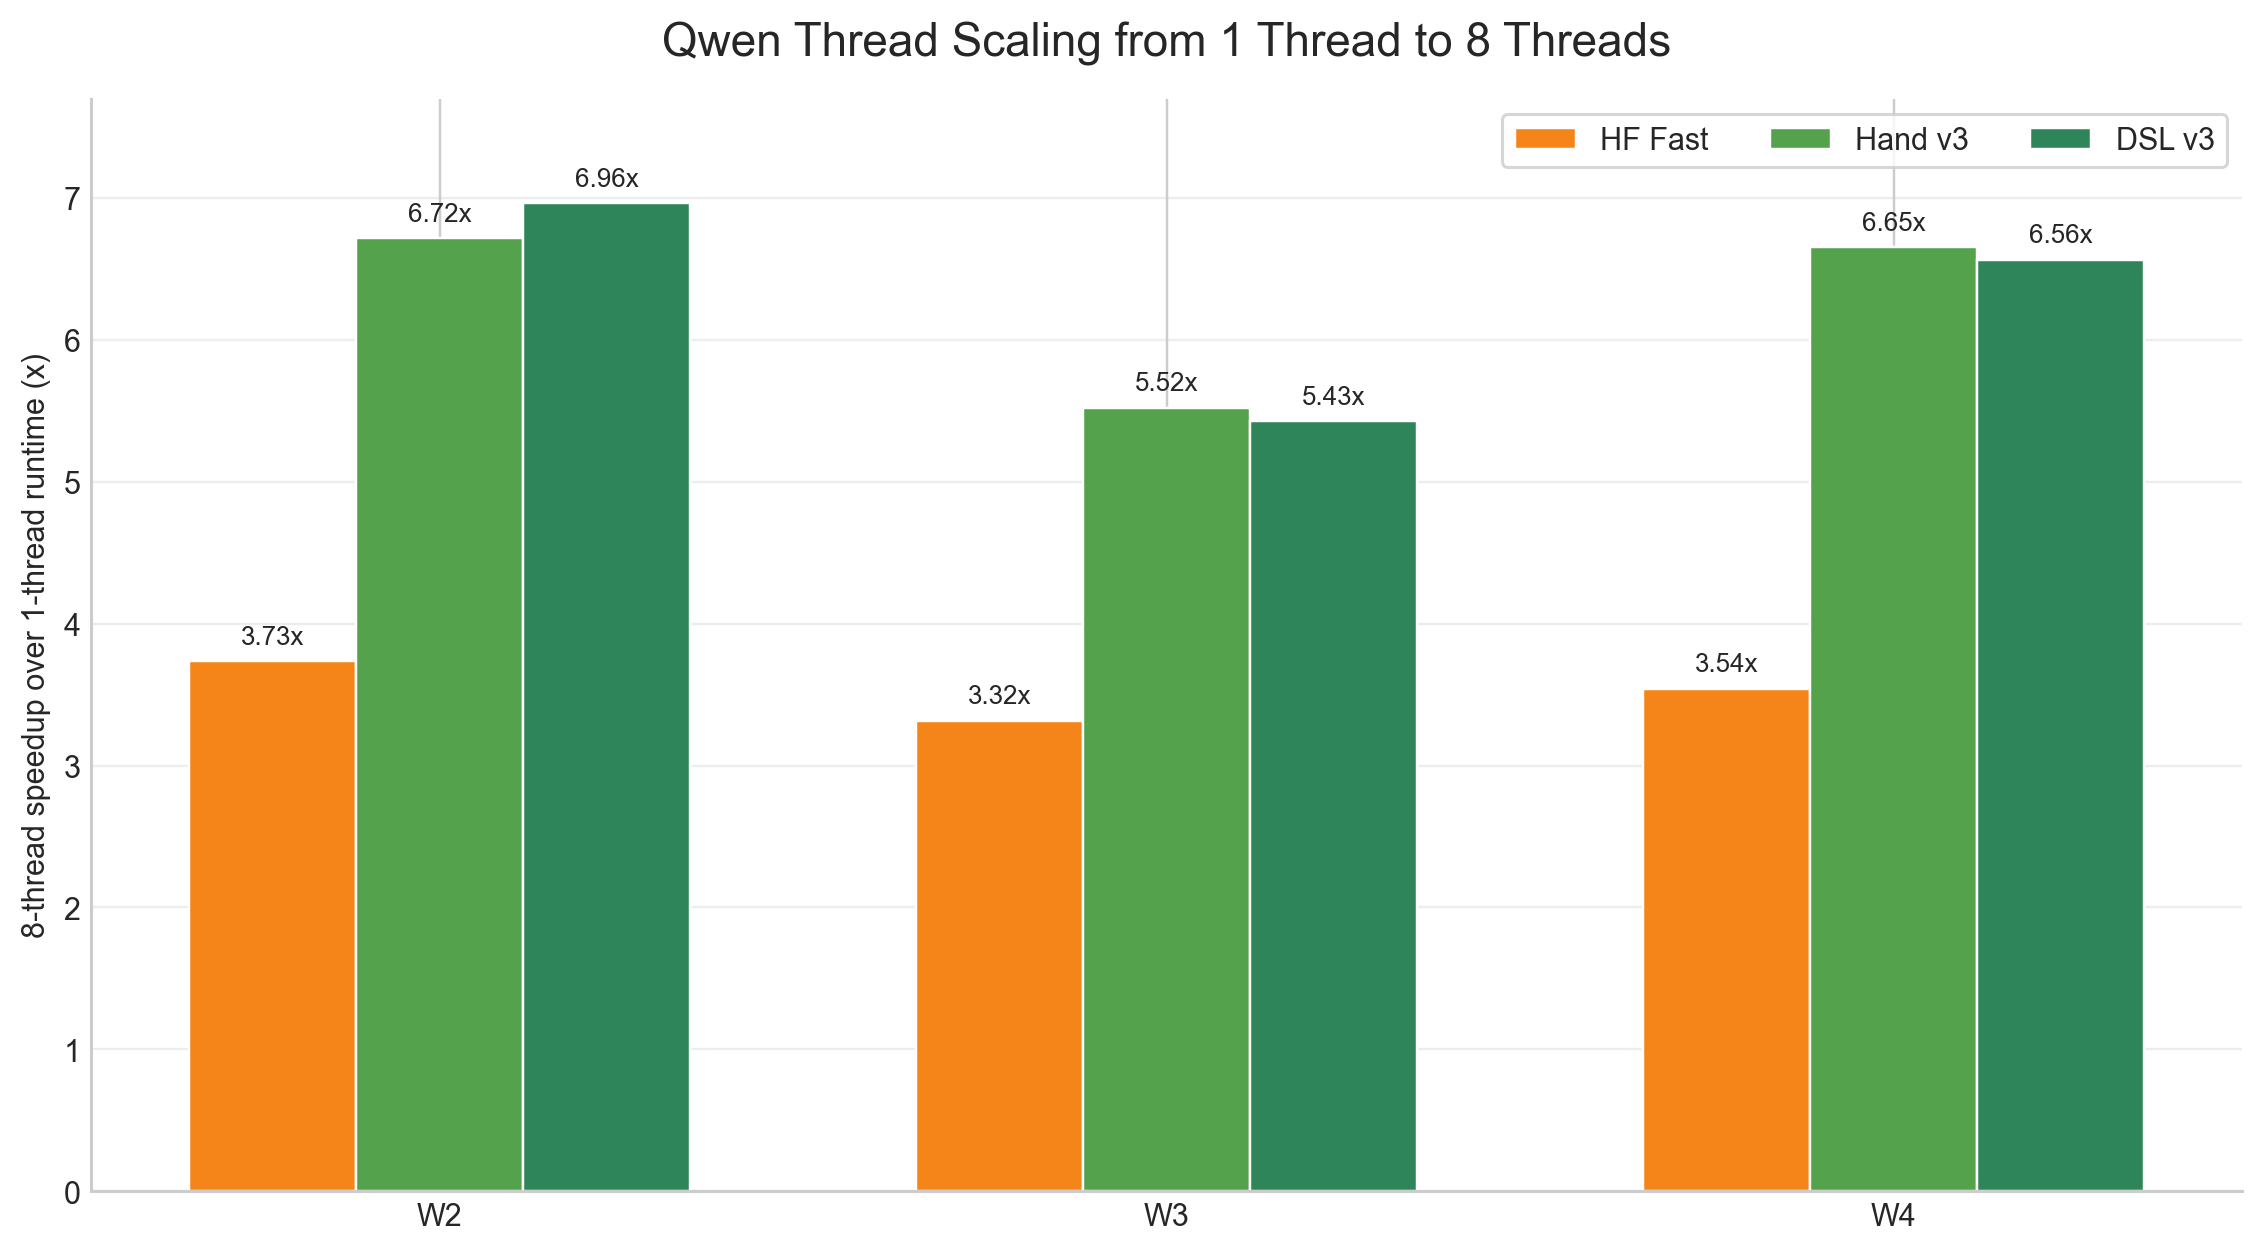
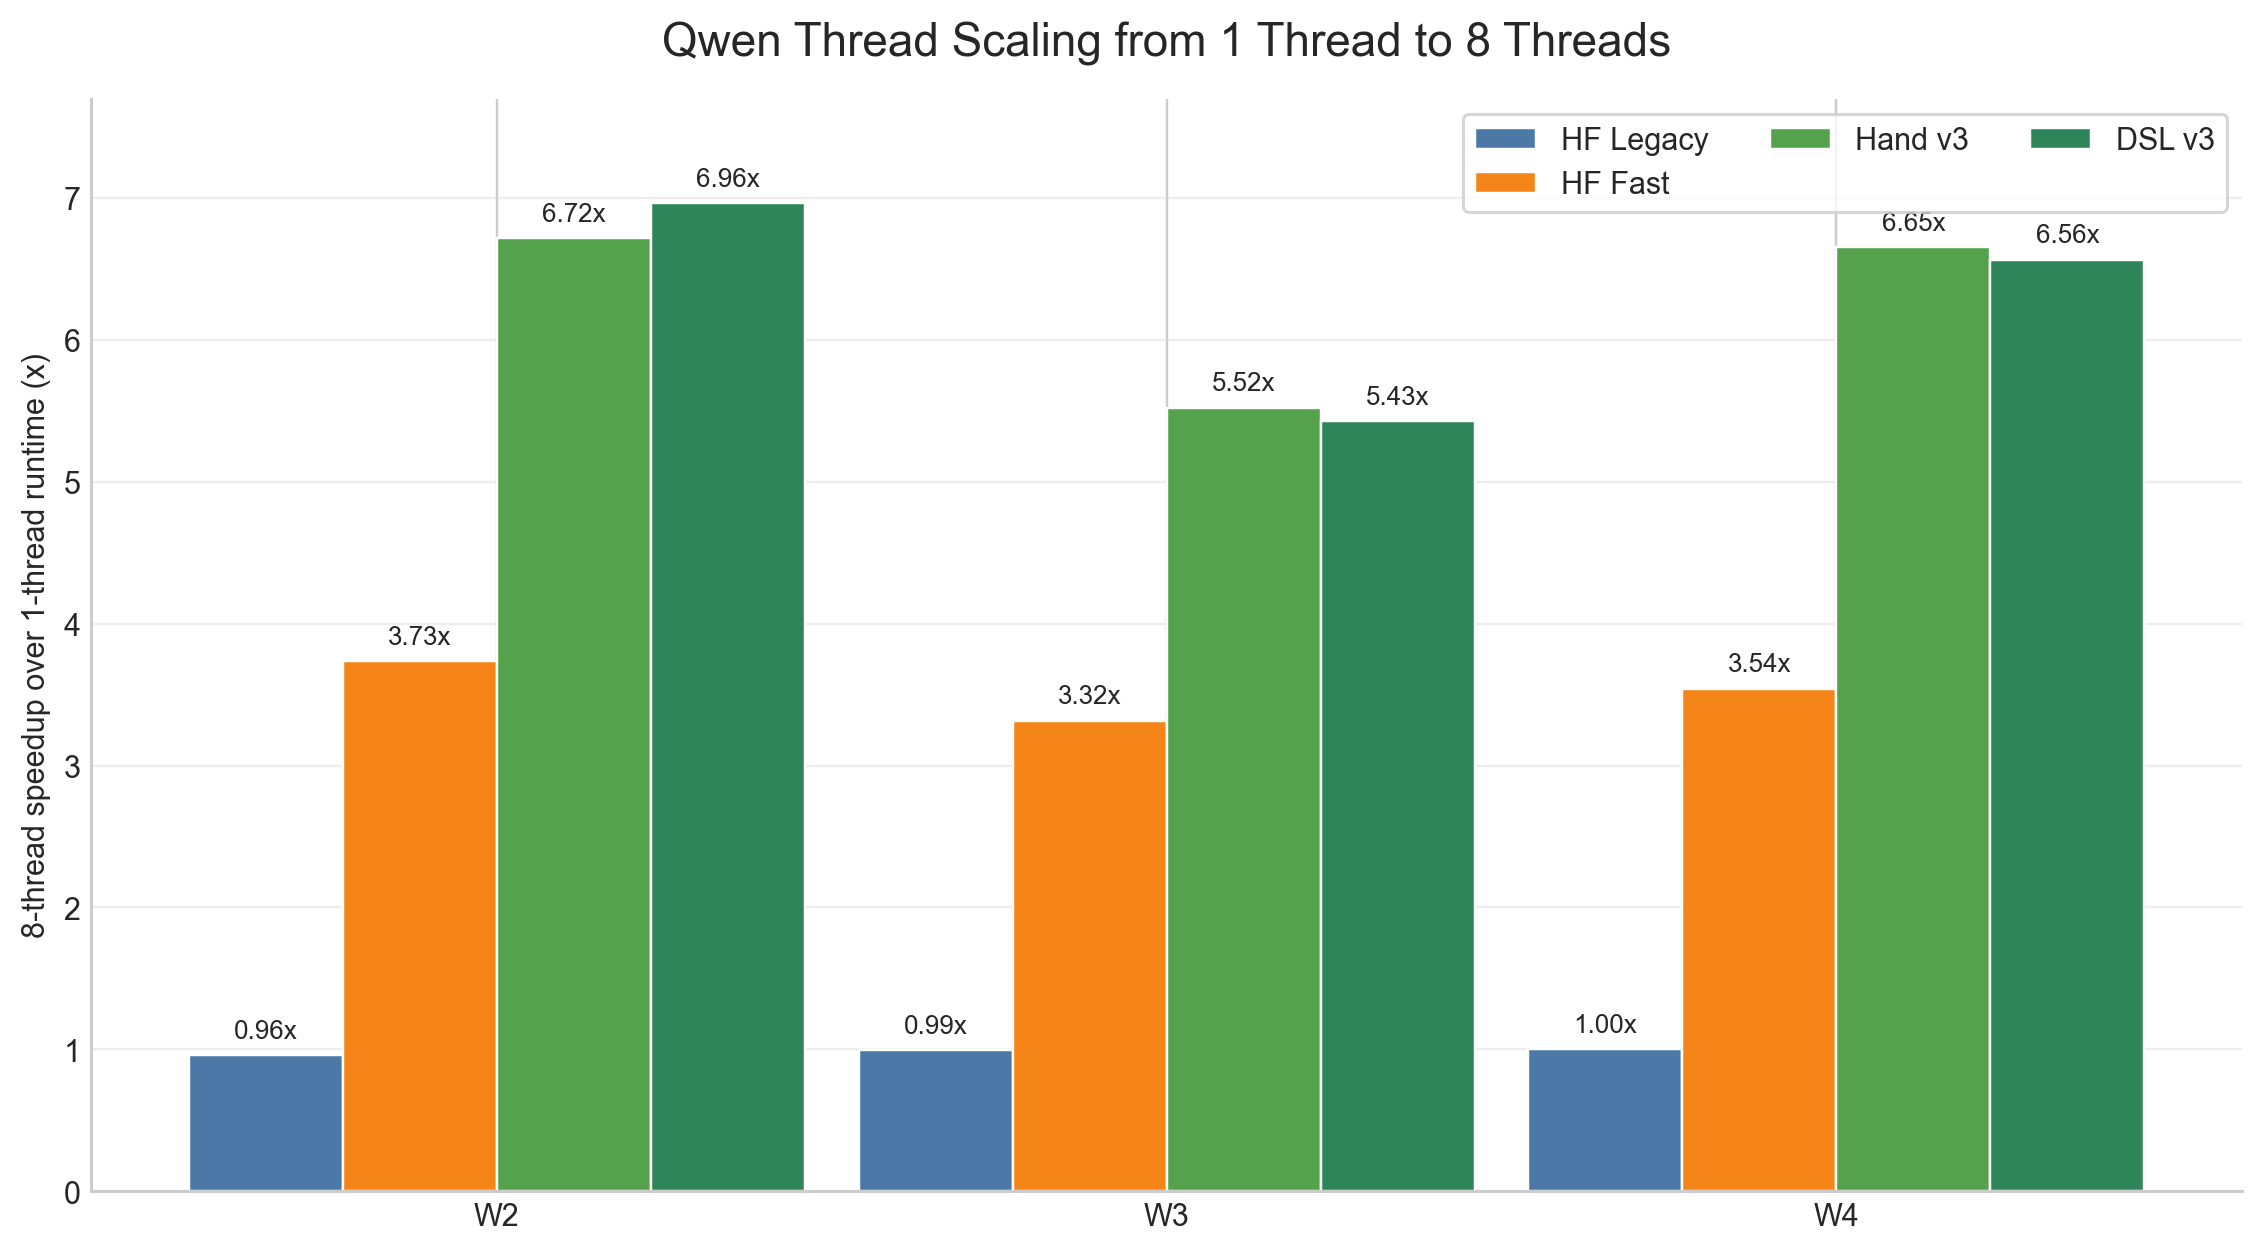
Update thread scaling visualization to include HF Legacy model

diff --git a/visualizations/data.py b/visualizations/data.py
@@ -125,8 +125,8 @@ def get_qwen_multithread_headline() -> dict[str, object]:
 def get_qwen_thread_scaling() -> dict[str, object]:
     single = load_markdown_results("results/aws/bench_dsl_results_single_thread.md")
     multi = load_markdown_results("results/aws/bench_dsl_results_multi_thread.md")
-    model_order = ["hf_fast", "v3", "dsl_v3"]
-    labels = {"hf_fast": "HF Fast", "v3": "Hand v3", "dsl_v3": "DSL v3"}
+    model_order = ["hf_legacy", "hf_fast", "v3", "dsl_v3"]
+    labels = {"hf_legacy": "HF Legacy", "hf_fast": "HF Fast", "v3": "Hand v3", "dsl_v3": "DSL v3"}
     values: dict[str, list[float]] = {labels[model]: [] for model in model_order}
 
     for workload in WORKLOADS:

diff --git a/README.md b/README.md
@@ -108,7 +108,7 @@ Contains Python scripts for creating visualizations from the output data.
 
 - `final_qwen_singlethread_speedup.png`: Shows single-thread Qwen runtime speedups over HF Fast for HF, hand-written, and DSL implementations.
 
-- `final_qwen_thread_scaling.png`: Shows Qwen 1-thread to 8-thread scaling for HF Fast, hand v3, and DSL v3.
+- `final_qwen_thread_scaling.png`: Shows Qwen 1-thread to 8-thread scaling for HF Legacy, HF Fast, hand v3, and DSL v3.
 
 - `final_qwen_dsl_schedule_ablation.png`: Shows single-thread and 8-thread DSL v1/v2/v3 schedule speedups over DSL v1.
 
